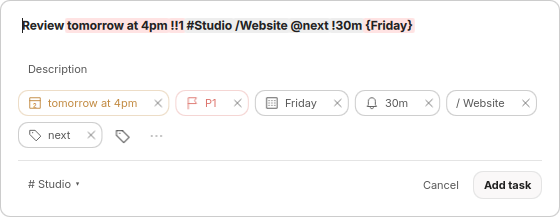
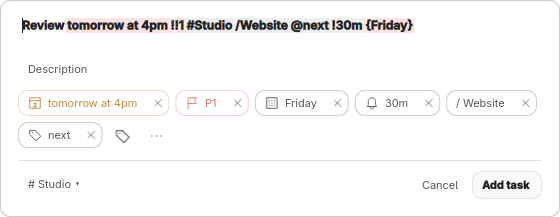
Use the desktop UI font instead of the monospace bar font

diff --git a/tests/composer.qml b/tests/composer.qml
@@ -10,6 +10,9 @@ import "plugin/ui" as Tasks
 ShellRoot {
     QtObject { id: fontBar; property string fontFamily: Style.font.family }
     QtObject { id: fontWidget; property var bar: fontBar }
+    Tasks.Label { id: nativeLabel; visible: false }
+    TextMetrics { id: narrowGlyphs; font.family: service.fontFamily; font.pixelSize: 14; text: "iiiiiiii" }
+    TextMetrics { id: wideGlyphs; font: narrowGlyphs.font; text: "WWWWWWWW" }
     Plugin.Service {
         id: service
         enableShortcuts: false
@@ -120,27 +123,31 @@ ShellRoot {
             var row = inlineList.rows.filter(function(r) { return r.kind === "add"; })[0]; verify(row !== undefined);
             inlineList.addAt(row.key, row.projectId); wait(80);
             var input = findChild(inlineList, "taskName"); verify(input !== null);
+            compare(input.font.family, Qt.application.font.family);
             input.text = "Review tomorrow !!1 #Studio @next"; input.cursorPosition = input.length; wait(30);
             compare(findChild(inlineList, "dateChip").text, "tomorrow"); compare(findChild(inlineList, "priorityChip").text, "P1");
             verify(findChild(inlineList, "highlight_due") !== null);
             keyClick(Qt.Key_Escape); keyClick(Qt.Key_Return); compare(service.captured.length, 1); compare(service.captured[0].text, "Review tomorrow !!1 #Studio @next");
         }
-        function test_title_wraps_and_highlight_positions_follow_font_changes() {
+        function test_title_wraps_and_highlight_positions_follow_font_size() {
             card.width = 360;
             enter("A long task name that wraps to another line tomorrow at 4pm p1 #Studio /Website @next");
             var input = findChild(composer, "taskName"); verify(input.contentHeight > input.font.pixelSize * 2);
-            fontBar.fontFamily = "Inter"; wait(30); compare(input.font.family, "Inter");
+            input.font.pixelSize = Style.font.body + 2; wait(30);
             verify(composer.highlightSpans.some(function(rect) { return rect.kind === "due" && rect.y > 0; }));
             verify(composer.highlightSpans.every(function(rect) { return rect.width > 0 && rect.x + rect.width <= input.width + 3; }));
+            input.font.pixelSize = Qt.binding(function() { return Style.font.body; });
             card.width = 560;
         }
-        function test_fonts_inherit_bar_and_shell_ignoring_old_preferences() {
-            service.preferences = {fontFamily: "monospace"}; fontBar.fontFamily = "Inter";
-            compare(composer.fontFamily, "Inter"); compare(findChild(composer, "taskName").font.family, "Inter");
-            compare(settings.fontFamily, "Inter"); compare(inlineList.fontFamily, "Inter");
+        function test_desktop_ui_font_is_used_even_with_a_monospace_bar() {
+            service.preferences = {fontFamily: "monospace"}; fontBar.fontFamily = "monospace";
+            var family = Qt.application.font.family;
+            compare(composer.fontFamily, family); compare(findChild(composer, "taskName").font.family, family);
+            compare(settings.fontFamily, family); compare(inlineList.fontFamily, family); compare(nativeLabel.font.family, family);
+            verify(wideGlyphs.advanceWidth > narrowGlyphs.advanceWidth * 2, "UI glyph widths must be proportional");
             verify(findChild(settings, "fontPicker") === null);
-            fontBar.fontFamily = "sans-serif"; compare(composer.fontFamily, "sans-serif"); compare(settings.fontFamily, "sans-serif");
-            service.widgets = []; compare(composer.fontFamily, Style.font.family); compare(settings.fontFamily, Style.font.family);
+            fontBar.fontFamily = "Inter"; compare(composer.fontFamily, family); compare(settings.fontFamily, family);
+            service.widgets = []; compare(composer.fontFamily, family); compare(settings.fontFamily, family);
         }
         function test_light_and_dark_highlight_colors() {
             var original = Color.popups.background;
@@ -186,7 +193,8 @@ ShellRoot {
                 Color.popups.border = scene.theme === "light" ? "#cccccc" : "#555555";
                 Color.foreground = Color.popups.text; Color.background = Color.popups.background;
                 Color.accent = scene.theme === "light" ? "#d1453b" : "#ff5c50";
-                service.widgets = [fontWidget]; fontBar.fontFamily = "Inter";
+                // Use the real bar default; a fake proportional bar font hides regressions.
+                service.widgets = [fontWidget]; fontBar.fontFamily = Style.font.family;
                 service.preferences = {};
                 card.width = scene.width;
                 composer.reset(); composer.visible = !scene.settings; settings.visible = scene.settings;

diff --git a/Service.qml b/Service.qml
@@ -2,7 +2,6 @@ import QtQuick
 import Quickshell
 import Quickshell.Io
 import Quickshell.Hyprland
-import qs.Commons
 import "Model.js" as Model
 import "ui/OrderModel.js" as Order
 import "ui/BulkModel.js" as Bulk
@@ -43,8 +42,8 @@ Item {
     property int syncFailures: 0
     property date now: clock.date
     property var widgets: []
-    // Match omarchy-hyprmoncfg: inherit the bar font, with the shell fallback.
-    readonly property string fontFamily: widgets.length && widgets[0].bar ? widgets[0].bar.fontFamily : Style.font.family
+    // The bar uses a terminal font. Task text follows the desktop's UI font.
+    readonly property string fontFamily: Qt.application.font.family
     readonly property bool configured: token.length > 0
     readonly property var projectMap: Model.byId(projects)
     readonly property var sectionMap: Model.byId(sections)

diff --git a/ui/TaskCheck.qml b/ui/TaskCheck.qml
@@ -5,7 +5,7 @@ import "../Model.js" as Model
 
 C.AbstractButton {
     id: root
-    property string fontFamily: Style.font.family
+    property string fontFamily: Qt.application.font.family
     required property var task
     readonly property color priorityColor: ["#999999", "#999999", "#5297ff", "#eb9700", "#ef615b"][task.priority || 1]
     implicitWidth: Style.space(26)

diff --git a/ui/Tip.qml b/ui/Tip.qml
@@ -4,7 +4,7 @@ import qs.Commons
 
 C.ToolTip {
     id: root
-    property string fontFamily: Style.font.family
+    property string fontFamily: Qt.application.font.family
     delay: 600
     padding: Style.space(10)
     // ToolTip centers using implicitWidth, so constrain that too; otherwise

diff --git a/ui/Action.qml b/ui/Action.qml
@@ -4,7 +4,7 @@ import qs.Commons
 
 C.AbstractButton {
     id: root
-    property string fontFamily: Style.font.family
+    property string fontFamily: Qt.application.font.family
     property bool selected: false
     property color foreground: Color.popups.text
     property string tip: ""

diff --git a/ui/Chip.qml b/ui/Chip.qml
@@ -3,7 +3,7 @@ import qs.Commons
 
 Item {
     id: root
-    property string fontFamily: Style.font.family
+    property string fontFamily: Qt.application.font.family
     property string text: ""
     property string iconName: ""
     property color foreground: Color.popups.text

diff --git a/ui/SizeControl.qml b/ui/SizeControl.qml
@@ -12,7 +12,7 @@ C.SpinBox {
     rightPadding: up.indicator.width + Style.space(4)
     topPadding: 0
     bottomPadding: 0
-    font.family: Style.font.family
+    font.family: Qt.application.font.family
     font.pixelSize: Style.font.bodySmall
 
     contentItem: TextInput {

diff --git a/ui/ViewIcon.qml b/ui/ViewIcon.qml
@@ -50,7 +50,7 @@ Item {
         y: parent.height * 0.39
         text: root.day
         color: root.color
-        font.family: Style.font.family
+        font.family: Qt.application.font.family
         font.pixelSize: root.height * 0.43
         font.bold: true
     }

diff --git a/ui/Label.qml b/ui/Label.qml
@@ -3,7 +3,7 @@ import qs.Commons
 
 Text {
     color: Color.popups.text
-    font.family: Style.font.family
+    font.family: Qt.application.font.family
     font.pixelSize: Style.font.body
     textFormat: Text.PlainText
     renderType: Text.NativeRendering

diff --git a/README.md b/README.md
@@ -42,9 +42,9 @@ Temporary sync failures retry automatically after 5 seconds, with increasing del
 
 The settings button opens panel size, account, and shortcut settings inside the panel. Disconnect clears the saved token and account data.
 
-Task lists, both task editors, menus, and settings inherit the bar's font,
-matching `omarchy-hyprmoncfg`. When no bar is available, they use the shell's
-default font. OmaTasks has no separate font setting.
+Task lists, both task editors, menus, and settings use the desktop's native UI
+font (for example, Adwaita Sans). They use proportional text independently of
+the bar's terminal font. OmaTasks has no separate font setting.
 
 ## Quick add
 
@@ -69,7 +69,7 @@ Tasks go to Inbox unless you choose a project. Inline additions in Today start w
 - Recognized shortcuts stay highlighted in the task name and update the property chips as you type or paste. Dates use Todoist's red inline highlight; priorities use their red, orange, or blue highlight. The same behavior applies to the popup and inline editor. Long task names wrap.
 - Todoist's Quick Add API uses the official apps' parser when saving. Live previews recognize common English dates and times, relative dates, recurrence, projects, sections, priorities, labels, assignees, reminders, deadlines, and durations on timed tasks. Other date expressions and account languages still go to Todoist unchanged. **No date** removes Today's default schedule. Reminder availability follows your Todoist plan.
 
-The layout follows Todoist’s [Quick Add design comparison](https://www.todoist.com/help/todoist/product-updates/a-cleaner-simpler-quick-add-june-29-PuIpiLmLh), with Omarchy’s theme and bar font. See Todoist’s [Quick Add guide](https://www.todoist.com/help/todoist/features/use-task-quick-add-in-todoist-va4Lhpzz) and [API syntax reference](https://developer.todoist.com/api/v1/#tag/Tasks/operation/quick_add_api_v1_tasks_quick_post) for its input syntax.
+The layout follows Todoist’s [Quick Add design comparison](https://www.todoist.com/help/todoist/product-updates/a-cleaner-simpler-quick-add-june-29-PuIpiLmLh), with Omarchy’s theme and the desktop's UI font. See Todoist’s [Quick Add guide](https://www.todoist.com/help/todoist/features/use-task-quick-add-in-todoist-va4Lhpzz) and [API syntax reference](https://developer.todoist.com/api/v1/#tag/Tasks/operation/quick_add_api_v1_tasks_quick_post) for its input syntax.
 
 **Escape** closes. A failed request preserves the text so you can retry. Dismissing quick add also preserves its draft for the next opening; Cancel discards it. These drafts last for the shell session.
 
@@ -150,8 +150,9 @@ Implementation follows the [Todoist API v1 documentation](https://developer.todo
 
 `check-composer` tests both entry points, keyboard autocomplete, typed and pasted
 metadata, chip changes, description boundaries, contextual defaults, title
-wrapping, and font changes with intercepted submissions. It never accesses a
-Todoist account. Capture before/after visual evidence at 360 and 560px, plus
+wrapping, highlight placement, and proportional UI fonts with intercepted
+submissions. It never accesses a Todoist account. Capture before/after visual
+evidence at 360 and 560px, plus
 settings at 420px, in light and dark themes with:
 
 ```sh
@@ -165,6 +166,9 @@ and `TODOIST_CAPTURE_STAGE=before`. Captures contain synthetic data only.
 
 <details>
 <summary>Before-and-after input and settings screenshots</summary>
+
+These compare the monospace bar font with the native proportional UI font,
+using the shell's default bar font and synthetic task data.
 
 | View | Before | After |
 | --- | --- | --- |
